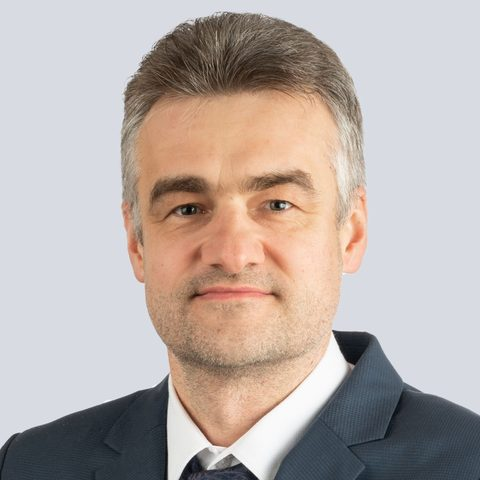
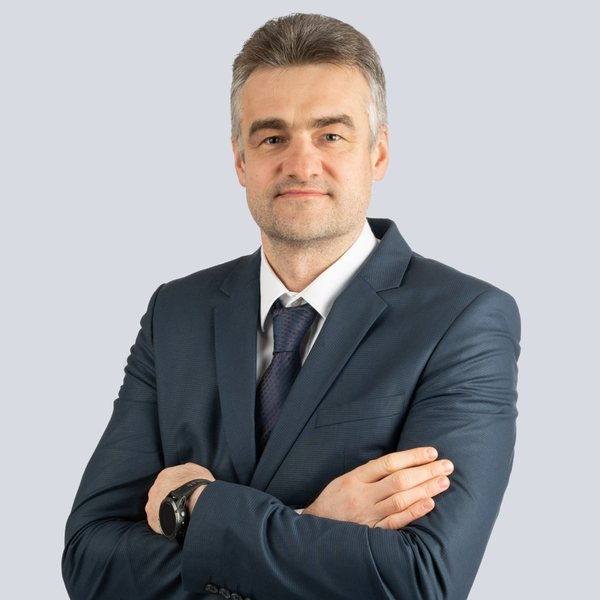
Kandidatai: anketų duomenys, A. Bardauskienė ir A. Vedrickaitė-Kinderė, geresnės nuotraukos

diff --git a/index.html b/index.html
@@ -176,19 +176,69 @@
         <p class="sec-lead">Į Tarybą kandidatuos apie 30 šiauliečių. Sąrašą pildome — netrukus čia bus visi.</p>
         <ul class="people">
           <li class="person">
-            <img src="foto/jonas-bartkus.jpg" alt="" width="150" height="150" loading="lazy">
+            <img src="foto/vladas-arturas-balsys.jpg" alt="" width="292" height="292" loading="lazy">
+            <p class="person-name">Vladas Artūras Balsys</p>
+            <p class="person-role">Miesto tarybos narys, Antikorupcijos komisijos pirmininkas</p>
+            <details class="person-more">
+              <summary>Plačiau</summary>
+              <ul>
+                <li>Dirba Respublikinės Šiaulių ligoninės Moters ir vaiko klinikos vaikų psichiatrijos skyriuje.</li>
+                <li>TS-LKD narys nuo 2008 m. Į miesto tarybą išrinktas 2015 ir 2023 m., Švietimo, kultūros ir sporto komiteto narys.</li>
+                <li>Lietuvos dviratininkų bendrijos narys — dalyvavo vertinant Šiaulių dviračių takų infrastruktūrą.</li>
+                <li>Medelyno mikrorajono bendruomenės valdybos narys.</li>
+                <li>Savaitgaliais su savanoriais pina maskuojamuosius tinklus Ukrainos kariams.</li>
+              </ul>
+              <blockquote>Mano pagrindinis siekis — kuo daugiau miesto gyventojų įtraukti į svarbių miestui klausimų nagrinėjimą, projektų aptarimą ir problemų sprendimo būdų ieškojimą.</blockquote>
+            </details>
+          </li>
+          <li class="person">
+            <img src="foto/audra-bardauskiene.jpg" alt="" width="600" height="600" loading="lazy">
+            <p class="person-name">Audra Bardauskienė</p>
+            <p class="person-role">Psichologė, Šiaulių Jovaro progimnazija</p>
+            <details class="person-more">
+              <summary>Plačiau</summary>
+              <ul>
+                <li>Psichologės darbo patirtis — nuo 2006 m., 2012–2026 m. Šiaulių miesto pedagoginėje psichologinėje tarnyboje.</li>
+                <li>TS-LKD narė nuo 2014 m.</li>
+                <li>Skautė nuo 1996 m. Nuo 2015 m. Krizinio nėštumo centro savanorė.</li>
+              </ul>
+              <blockquote>Mano darbas — arti žmogaus. Mano rūpimos sferos — šeimų gerovė ir švietimo sistema. Noriu prisidėti, kad kuo daugiau šeimų galėtų teigiamai vertinti gyvenimą Saulės mieste.</blockquote>
+              <p><a href="https://www.facebook.com/audra.bardauskiene" rel="noopener">Facebook</a></p>
+            </details>
+          </li>
+          <li class="person">
+            <img src="foto/jonas-bartkus.jpg" alt="" width="600" height="600" loading="lazy">
             <p class="person-name">Jonas Bartkus</p>
             <p class="person-role">kandidatas į Tarybos narius</p>
           </li>
           <li class="person">
-            <img src="foto/vladas-arturas-balsys.jpg" alt="" width="150" height="150" loading="lazy">
-            <p class="person-name">Vladas Artūras Balsys</p>
-            <p class="person-role">kandidatas į Tarybos narius</p>
+            <img src="foto/eligijus-stugys.jpg" alt="" width="600" height="600" loading="lazy">
+            <p class="person-name">Eligijus Stugys</p>
+            <p class="person-role">Miesto tarybos narys, IT inžinierius</p>
+            <details class="person-more">
+              <summary>Plačiau</summary>
+              <ul>
+                <li>Vyresnysis IT inžinierius UAB „NFQ Technologies“, daugiau nei 20 metų kuria informacines sistemas.</li>
+                <li>Tarybos narys 2015–2019 ir 2023–2027 m., Sveikatos ir socialinių reikalų komiteto narys.</li>
+                <li>TS-LKD narys nuo 2011 m. Daugiabučio namo savininkų bendrijos pirmininkas.</li>
+              </ul>
+              <blockquote>Taryboje daugiausia dirbu sveikatos ir socialinių reikalų srityje ir tikrinu, kaip leidžiami miesto pinigai. Noriu, kad į klausimą „Kada?“ visada būtų aiškus atsakymas.</blockquote>
+              <p><a href="https://stugys.lt" rel="noopener">stugys.lt</a> · <a href="https://www.facebook.com/elyga1" rel="noopener">Facebook</a></p>
+            </details>
           </li>
           <li class="person">
-            <img src="foto/eligijus-stugys.jpg" alt="" width="480" height="480" loading="lazy">
-            <p class="person-name">Eligijus Stugys</p>
-            <p class="person-role">kandidatas į Tarybos narius</p>
+            <img src="foto/ausra-vedrickaite-kindere.jpg" alt="" width="256" height="256" loading="lazy">
+            <p class="person-name">Aušra Vedrickaitė-Kinderė</p>
+            <p class="person-role">Dainininkė, dainavimo mokytoja</p>
+            <details class="person-more">
+              <summary>Plačiau</summary>
+              <ul>
+                <li>Nuo 2010 m. Valstybinio kamerinio choro „Polifonija“ dainininkė (mecosopranas).</li>
+                <li>Dainavimo mokytoja Kuršėnų meno mokykloje ir Šiaulių „Dagilėlio“ dainavimo mokykloje.</li>
+                <li>Vytauto Didžiojo universiteto Muzikos akademijos magistrė.</li>
+              </ul>
+              <blockquote>Tikiu, kad švietimas, kultūra ir pagarba žmogui yra stiprios, atsakingos visuomenės pagrindas.</blockquote>
+            </details>
           </li>
           <li class="person person-soon" aria-label="Daugiau kandidatų — netrukus">
             <span class="soon-num">+</span>

diff --git a/style.css b/style.css
@@ -178,10 +178,20 @@ section { padding: 72px 0; }
 
 /* Komanda */
 .team { background: #fff; }
-.people { list-style: none; display: grid; grid-template-columns: repeat(4, 1fr); gap: 24px; }
+.people { list-style: none; display: grid; grid-template-columns: repeat(3, 1fr); gap: 32px 24px; align-items: start; }
 .person img { width: 100%; aspect-ratio: 1; object-fit: cover; background: var(--grey); border-bottom: 5px solid var(--teal); }
 .person-name { font-weight: 800; font-size: 20px; line-height: 1.2; margin-top: 12px; color: var(--navy); }
 .person-role { font-size: 15px; color: var(--muted); }
+.person-more { margin-top: 10px; font-size: 16px; line-height: 1.45; }
+.person-more summary {
+  cursor: pointer; display: inline-block;
+  font-weight: 800; color: var(--blue); padding: 4px 0;
+}
+.person-more summary::marker { color: var(--teal); }
+.person-more[open] summary { margin-bottom: 8px; }
+.person-more ul { padding-left: 18px; display: grid; gap: 6px; }
+.person-more blockquote { margin-top: 10px; padding-left: 12px; border-left: 4px solid var(--yellow); font-style: italic; }
+.person-more p { margin-top: 8px; font-weight: 700; }
 .person-soon .soon-num {
   display: grid; place-items: center; aspect-ratio: 1;
   background: var(--grey); border: 3px dashed var(--blue); border-bottom-width: 5px;
@@ -217,7 +227,8 @@ section { padding: 72px 0; }
   .work h3 { font-size: 21px; }
   .mayor-in { flex-direction: column; align-items: flex-start; gap: 32px; }
   .mayor-photo img { width: 180px; }
-  .people { gap: 16px; }
+  .people { grid-template-columns: 1fr; gap: 32px; }
+  .person img, .person-soon .soon-num { max-width: 320px; }
   .s1 { width: 260px; height: 160px; top: -90px; right: -110px; }
 }
 
